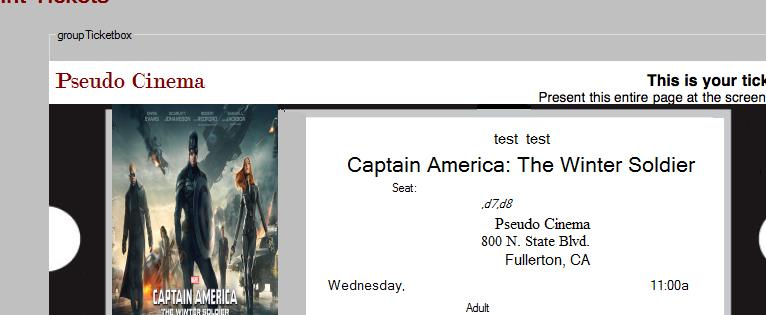
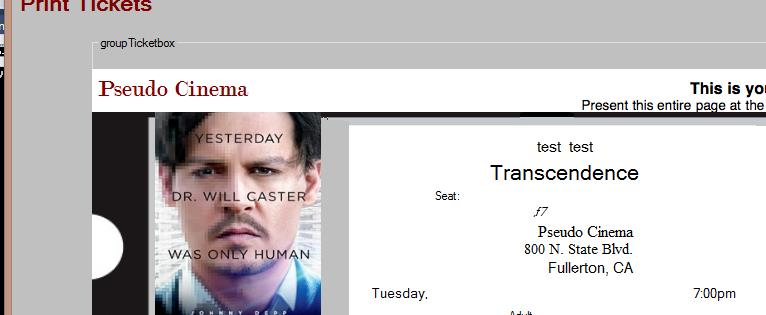
TICKET PRINT IMAGE FIXED
IT WORKS JUST NOT WITH CAP AMERICA. I NEED TO DO IT WITH A STANDARD SIZE
BUT OTHER THAN THAT TICKET PRINT IS GOOD TO GO

diff --git a/MovieTheater/homepage.cs b/MovieTheater/homepage.cs
@@ -2493,7 +2493,13 @@ namespace MovieTheater
 
             //ADDS GRAPHIC TO IMAGE
             //RESIZE IT
-            e.Graphics.DrawImage(ticketPoster.Image, 0, 0);
+            // Create rectangle for displaying image.
+            Rectangle destRect = new Rectangle(165, 190, 350, 350);
+
+            // Create rectangle for source image.
+            Rectangle srcRect = new Rectangle(0, 0, 350, 450);
+            GraphicsUnit units = GraphicsUnit.Pixel;
+            e.Graphics.DrawImage(ticketPoster.Image, destRect, srcRect, units);
         }
 
 
